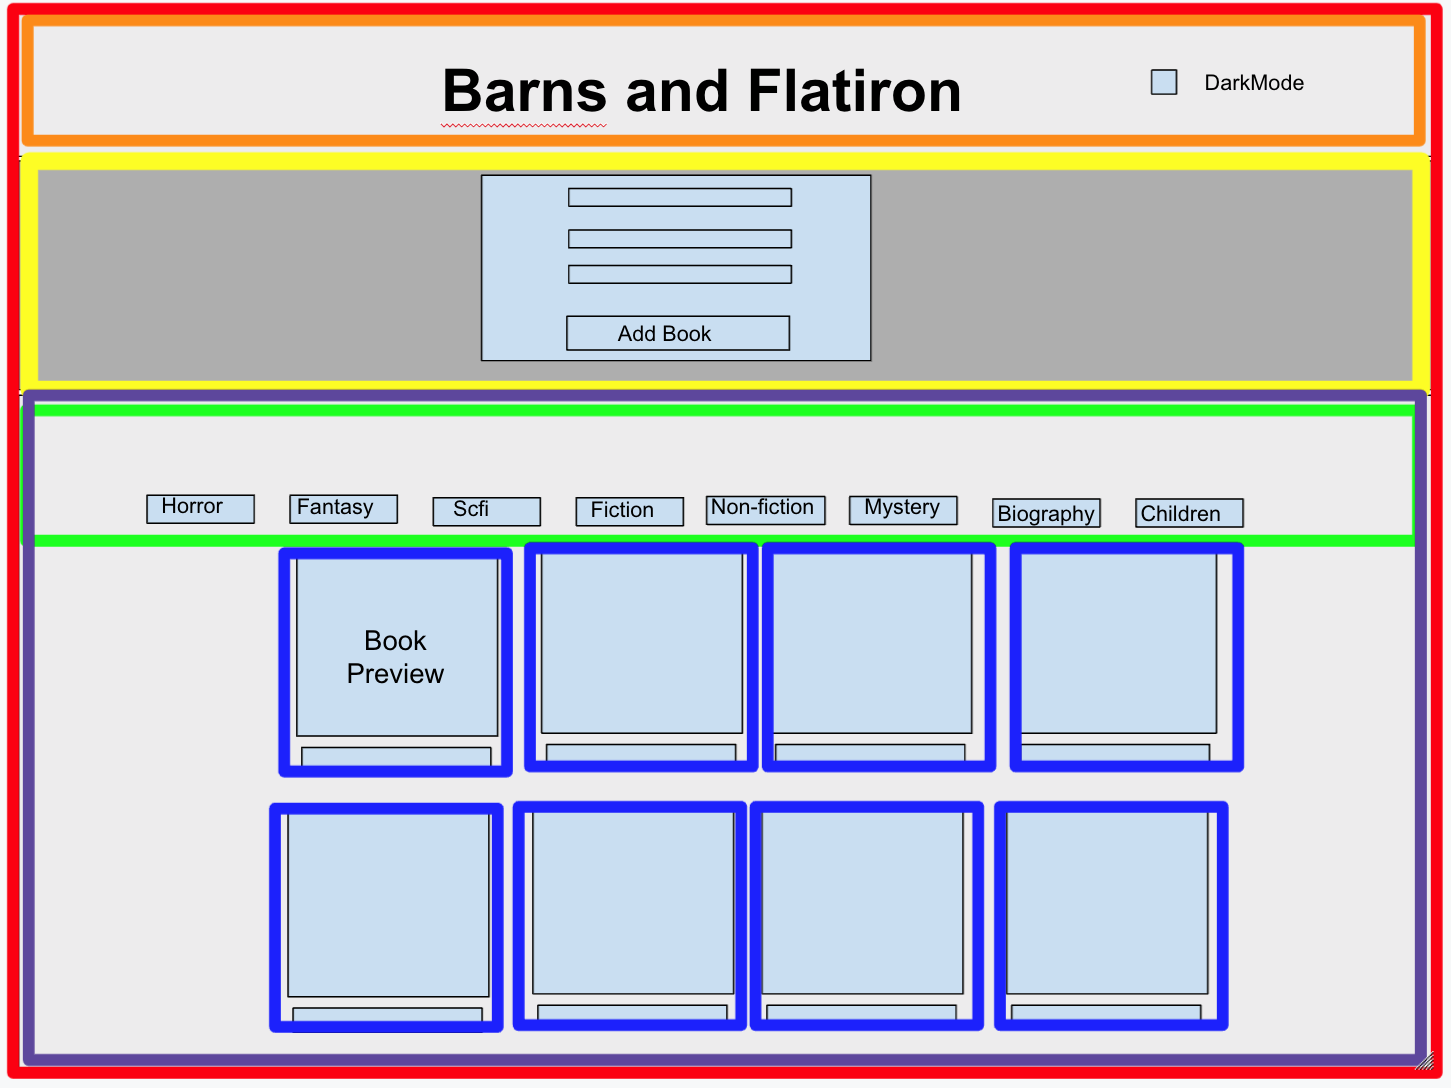
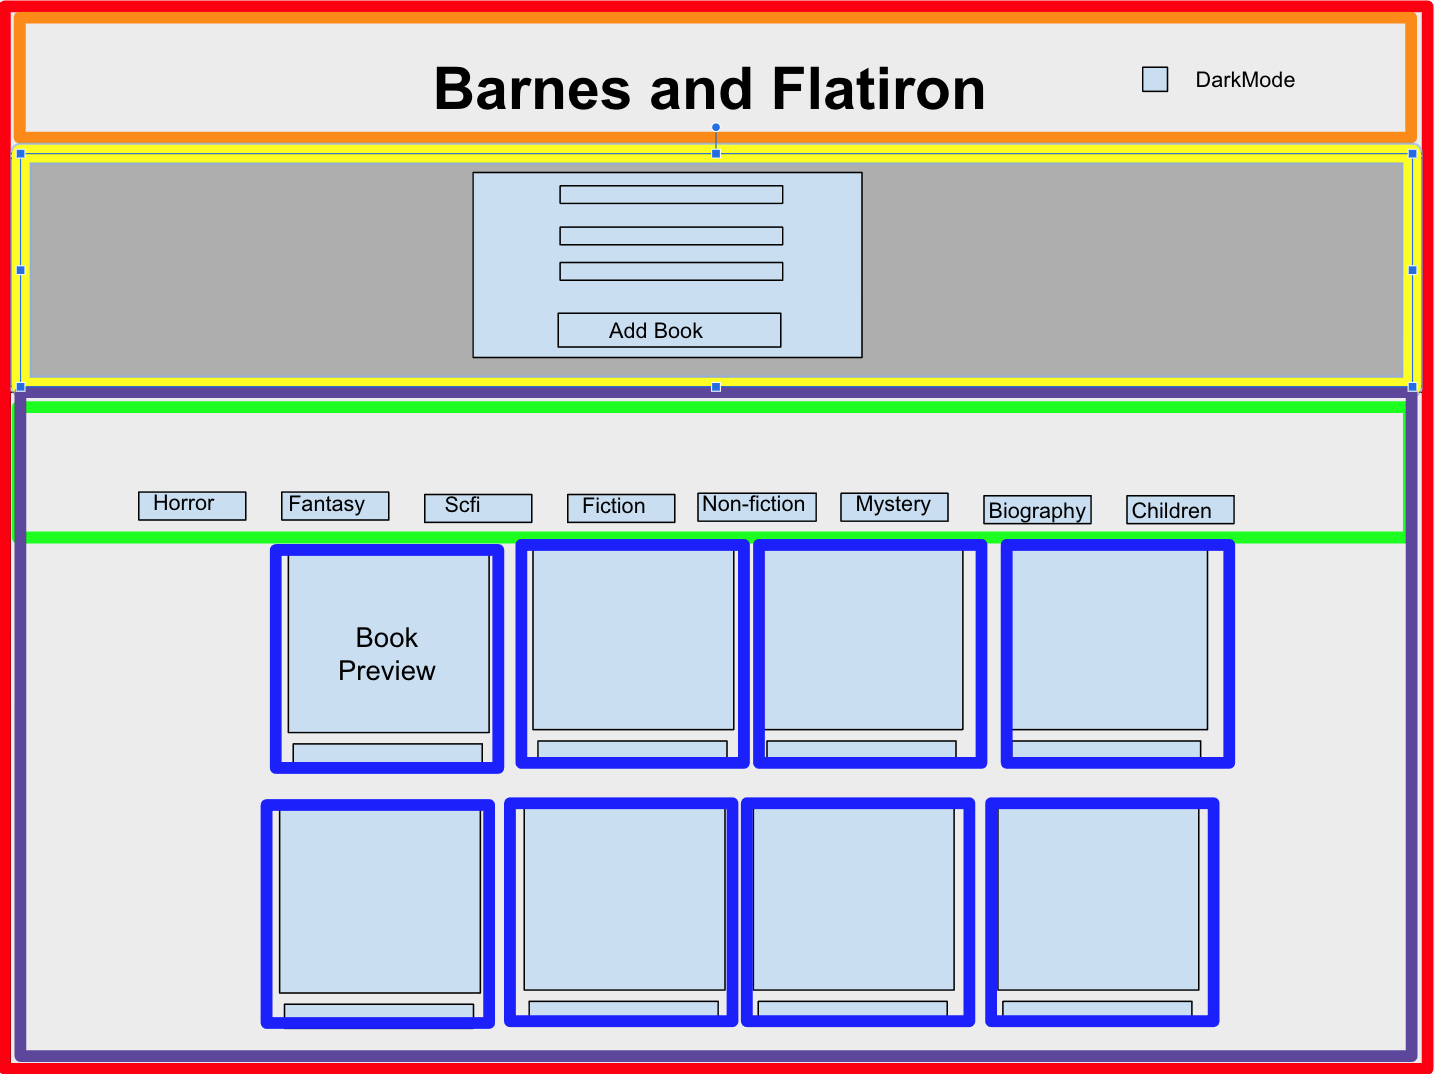
solution props

Changed region(s): [[0.0, 0.0, 1.0, 1.0], [0.7666, 0.0615, 0.9199, 0.0922], [0.3986, 0.2151, 0.5519, 0.2458]]

diff --git a/phase-2/02-components-and-props/flatiron-books/flatiron-books/src/components/App.js b/phase-2/02-components-and-props/flatiron-books/flatiron-books/src/components/App.js
@@ -1,0 +1,24 @@
+
+import Header from "./Header";
+import BookContainer from "./BookContainer";
+import Form from "./Form"
+
+import {books, genres} from '../data/books'
+
+//TODO: Create a components folder
+//TODO: Create Header, Form, Genre and BookContainer components
+//TODO: Dynamically render BookCard in BookContainer using data from books.js
+function App() {
+
+  return (
+    <div>
+      <Header storeName="Barnes and Flatiron" slogan="Live Love Code"/>
+      <Form/>
+      <BookContainer bookList={books} genresList={genres} />
+ 
+
+    </div>
+  );
+}
+
+export default App;

diff --git a/phase-2/02-components-and-props/flatiron-books/flatiron-books/src/components/BookContainer.js b/phase-2/02-components-and-props/flatiron-books/flatiron-books/src/components/BookContainer.js
@@ -1,0 +1,13 @@
+import Genre from "./Genre";
+import BookCard from "./BookCard"
+function BookContainer(props){
+    return(
+        <>
+           <div style={{display:"flex"}}>{props.genresList.map(genre => <Genre genreStr={genre} key={genre}/> )} 
+           </div>
+            {props.bookList.map(book => <BookCard bookObj={book} key={book.title} />)}
+        </>
+    )
+}
+
+export default BookContainer

diff --git a/phase-2/02-components-and-props/flatiron-books/flatiron-books/src/components/BookCard.js b/phase-2/02-components-and-props/flatiron-books/flatiron-books/src/components/BookCard.js
@@ -1,0 +1,12 @@
+function BookCard({bookObj:{title, author, genre="fiction", price=10}}){
+    return(
+        <>
+            <h1>{title}</h1>
+            <h3>{author}</h3>
+            <p>{genre}</p>
+            <p>{price}</p>
+        </>
+    )
+}
+
+export default BookCard

diff --git a/phase-2/02-components-and-props/flatiron-books/flatiron-books/src/data/books.js b/phase-2/02-components-and-props/flatiron-books/flatiron-books/src/data/books.js
@@ -3,7 +3,7 @@ export const books = [
       id: 1,
       title: "Eloquent JavaScript: A Modern Introduction to Programming",
       author: "Marjin Haverbeke",
-      genre: "technical",
+   
       liked: true,
     
       reviews: [

diff --git a/phase-2/02-components-and-props/flatiron-books/flatiron-books/src/components/Header.js b/phase-2/02-components-and-props/flatiron-books/flatiron-books/src/components/Header.js
@@ -1,0 +1,11 @@
+function Header(props){
+    console.log(props)
+    return(
+        <div>
+            <h1>{props.storeName}</h1>
+            <h3>{props.slogan}</h3>
+        </div>
+    )
+}
+
+export default Header

diff --git a/phase-2/02-components-and-props/flatiron-books/flatiron-books/src/index.js b/phase-2/02-components-and-props/flatiron-books/flatiron-books/src/index.js
@@ -1,7 +1,7 @@
 import React from 'react';
 import ReactDOM from 'react-dom';
 
-import App from './App';
+import App from './components/App';
 
 
 ReactDOM.render(<App />,document.getElementById('root'));

diff --git a/phase-2/02-components-and-props/flatiron-books/flatiron-books/src/components/Genre.js b/phase-2/02-components-and-props/flatiron-books/flatiron-books/src/components/Genre.js
@@ -1,0 +1,9 @@
+function Genre({genreStr}){
+    console.log(genreStr)
+
+    return(
+        <div style={{margin:"5px"}}>{genreStr}</div>
+    )
+}
+
+export default Genre

diff --git a/phase-2/02-components-and-props/flatiron-books/flatiron-books/src/components/Form.js b/phase-2/02-components-and-props/flatiron-books/flatiron-books/src/components/Form.js
@@ -1,0 +1,7 @@
+function Form(){
+    return(
+        <div>Form</div>
+    )
+}
+
+export default Form
